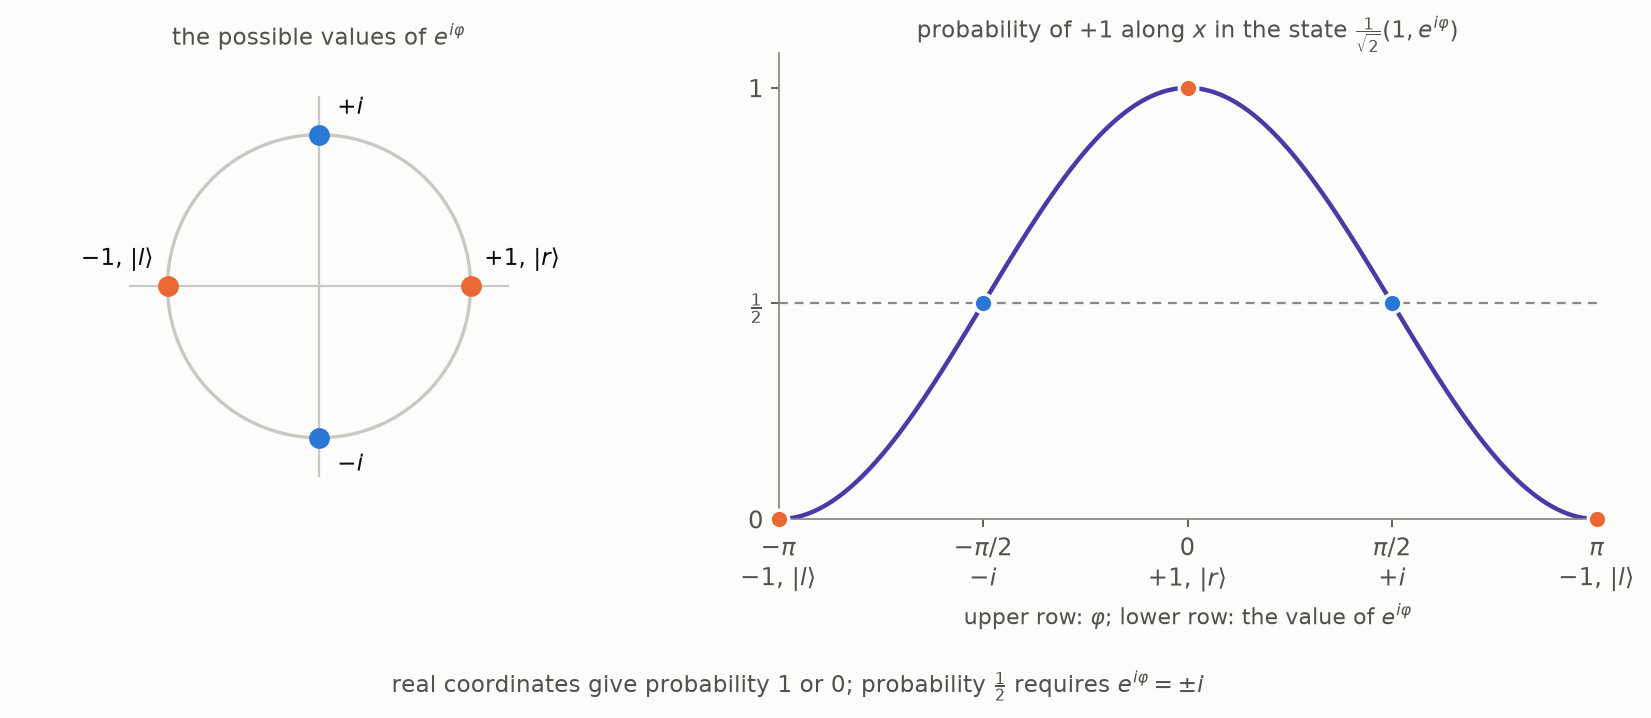
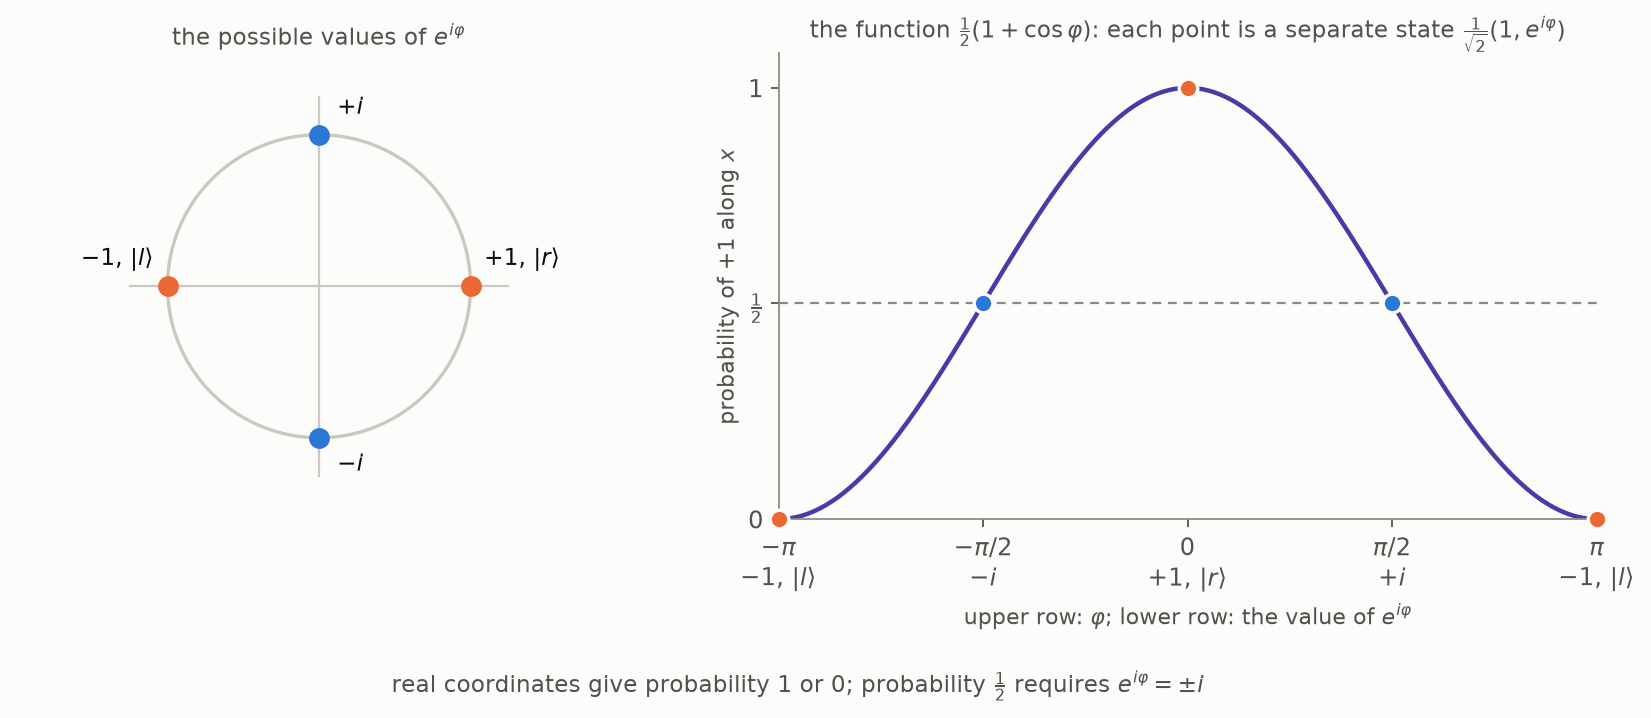
Observables Are Hermitian Operators: y_phase is not a wavefunction: said in the text and in the plot's title

diff --git a/content/quantum/observables-are-hermitian-operators/index.md b/content/quantum/observables-are-hermitian-operators/index.md
@@ -548,7 +548,7 @@ Steps 2–4 are the last post and this one. In his words (p. 119):
 "To extract this information for any observable, we must determine
 the eigenbasis of the corresponding operator and find the
 projection of $|\psi\rangle$ along all its eigenkets." Landau and
-Lifshitz take the opposite order in their §3: the wave functions of
+Lifshitz take the opposite order in their §3: the wavefunctions of
 the states in which the quantity has a definite value are the first
 objects they name, and the operator is built afterwards to fit them.
 So the link between an operator and its definite states can be
@@ -646,6 +646,11 @@ $e^{i\varphi} = i$ or $e^{i\varphi} = -i$. This is what the second post
 promised. Real coordinates would require $e^{i\varphi} = \pm 1$, and
 those two values give $|r\rangle$ and $|l\rangle$ themselves, with
 probabilities $1$ and $0$. No real choice gives $\tfrac12$.
+
+The figure plots this function of $\varphi$. It is not a wavefunction:
+the horizontal axis is the phase, not a position, and each point of the
+curve is a separate state of the spin, with its own probability of $+1$
+along $x$.
 
 ![The phase of the second coordinate: of the values of e^(iφ) on the unit circle, +1 and −1 give the states |r⟩ and |l⟩, with probabilities 1 and 0 of +1 along x; the probability equals one half only at +i and −i](y_phase.png)
 
